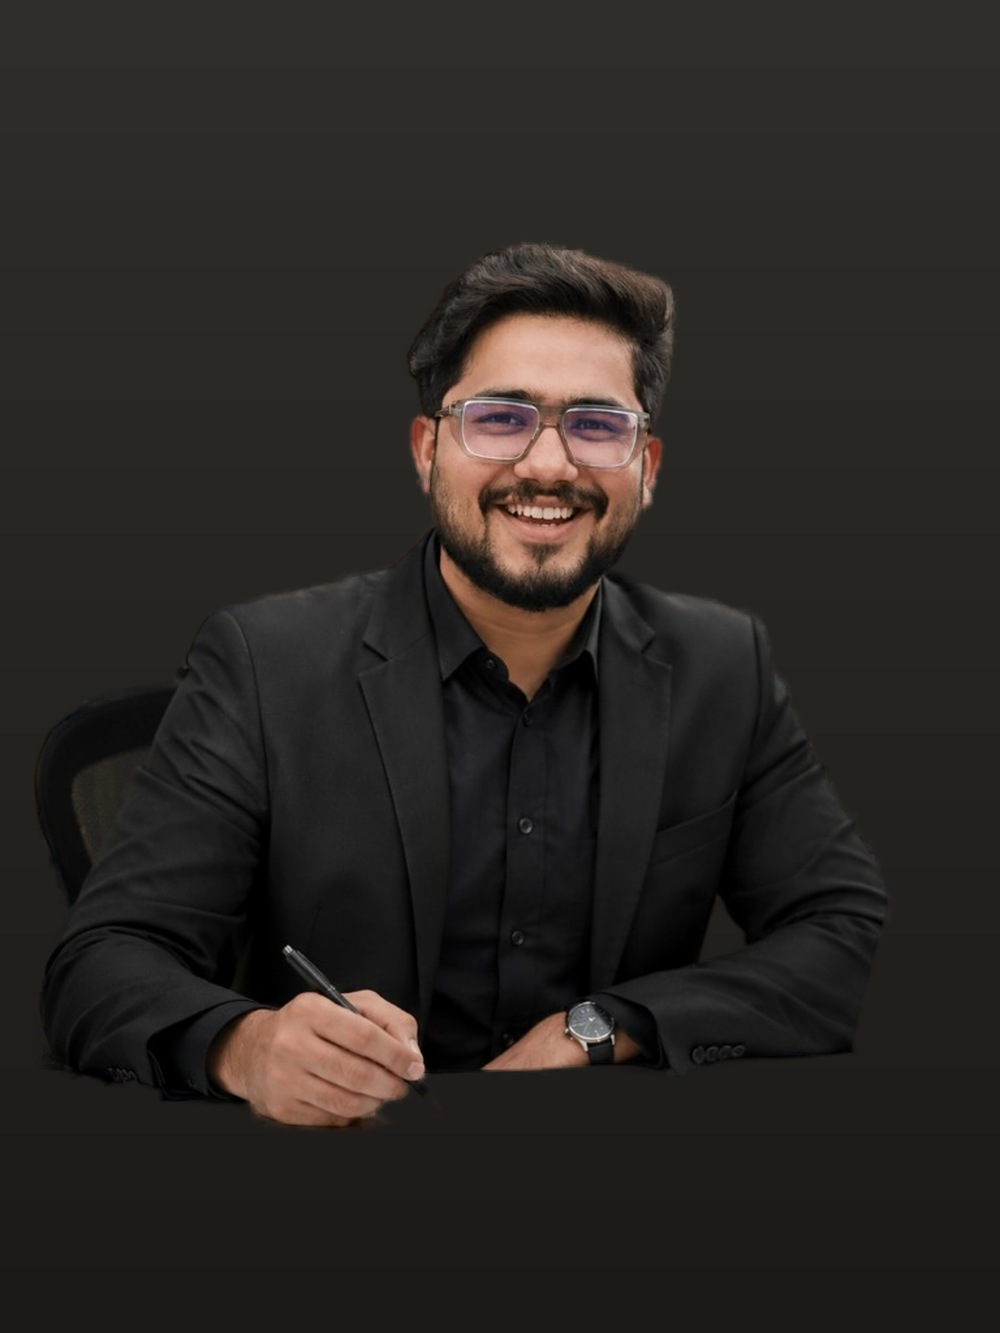
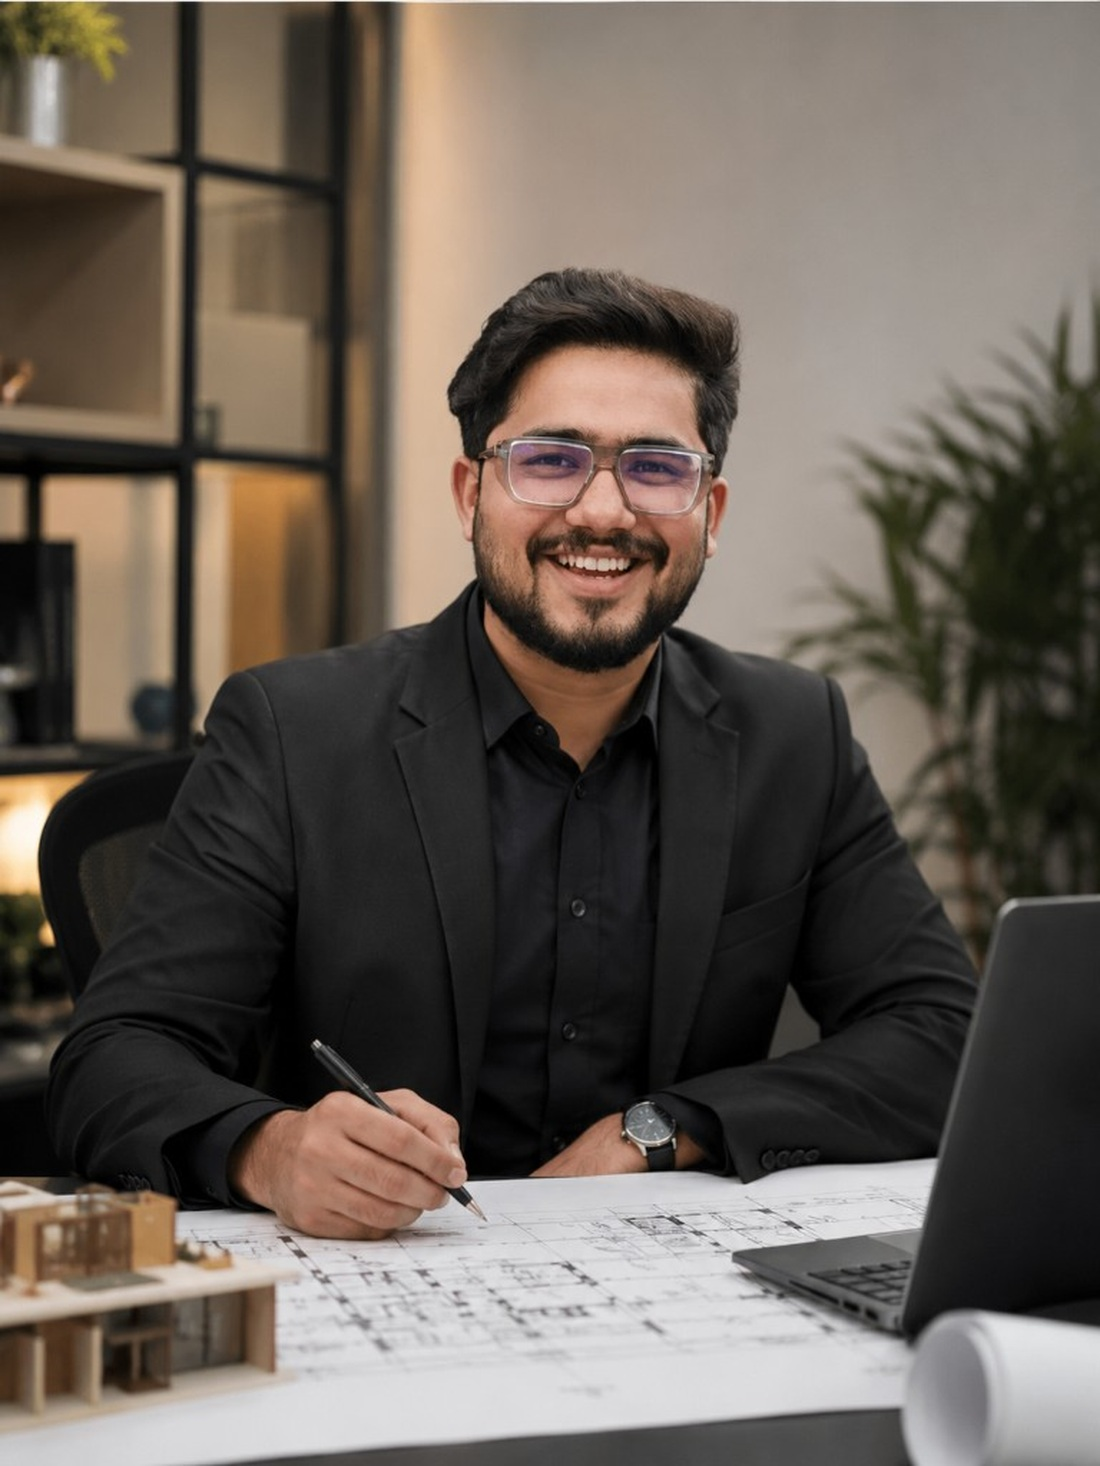
Show full founder photo (background, desk, hands) uncropped in the frame.

diff --git a/src/components/pages/FounderSection.tsx b/src/components/pages/FounderSection.tsx
@@ -1,5 +1,5 @@
 import { useScrollReveal } from '../../hooks/useScrollReveal'
-import founderPhoto from '../../assets/founder.png'
+import founderPhoto from '../../assets/founder.jpg'
 
 export const FOUNDER = {
   name: 'Khushank Kathuria',
@@ -29,15 +29,14 @@ export function FounderSection() {
           style={{
             // Top-left / bottom-left / bottom-right rounded; top-right sharp
             borderRadius: '120px 8px 120px 120px',
-            // Dark fill so transparent photo areas blend (no white)
-            background: 'rgb(32, 30, 28)',
             boxShadow: '0 0 0 1px rgb(var(--border)), 0 32px 80px rgb(var(--shadow))',
           }}
         >
+          {/* Photo is 3:4, same as the frame — shows in full, no cropping */}
           <img
             src={founderPhoto}
             alt={FOUNDER.name}
-            className="absolute inset-0 h-full w-full object-cover object-[center_12%]"
+            className="absolute inset-0 h-full w-full object-cover object-center"
           />
         </div>
 
